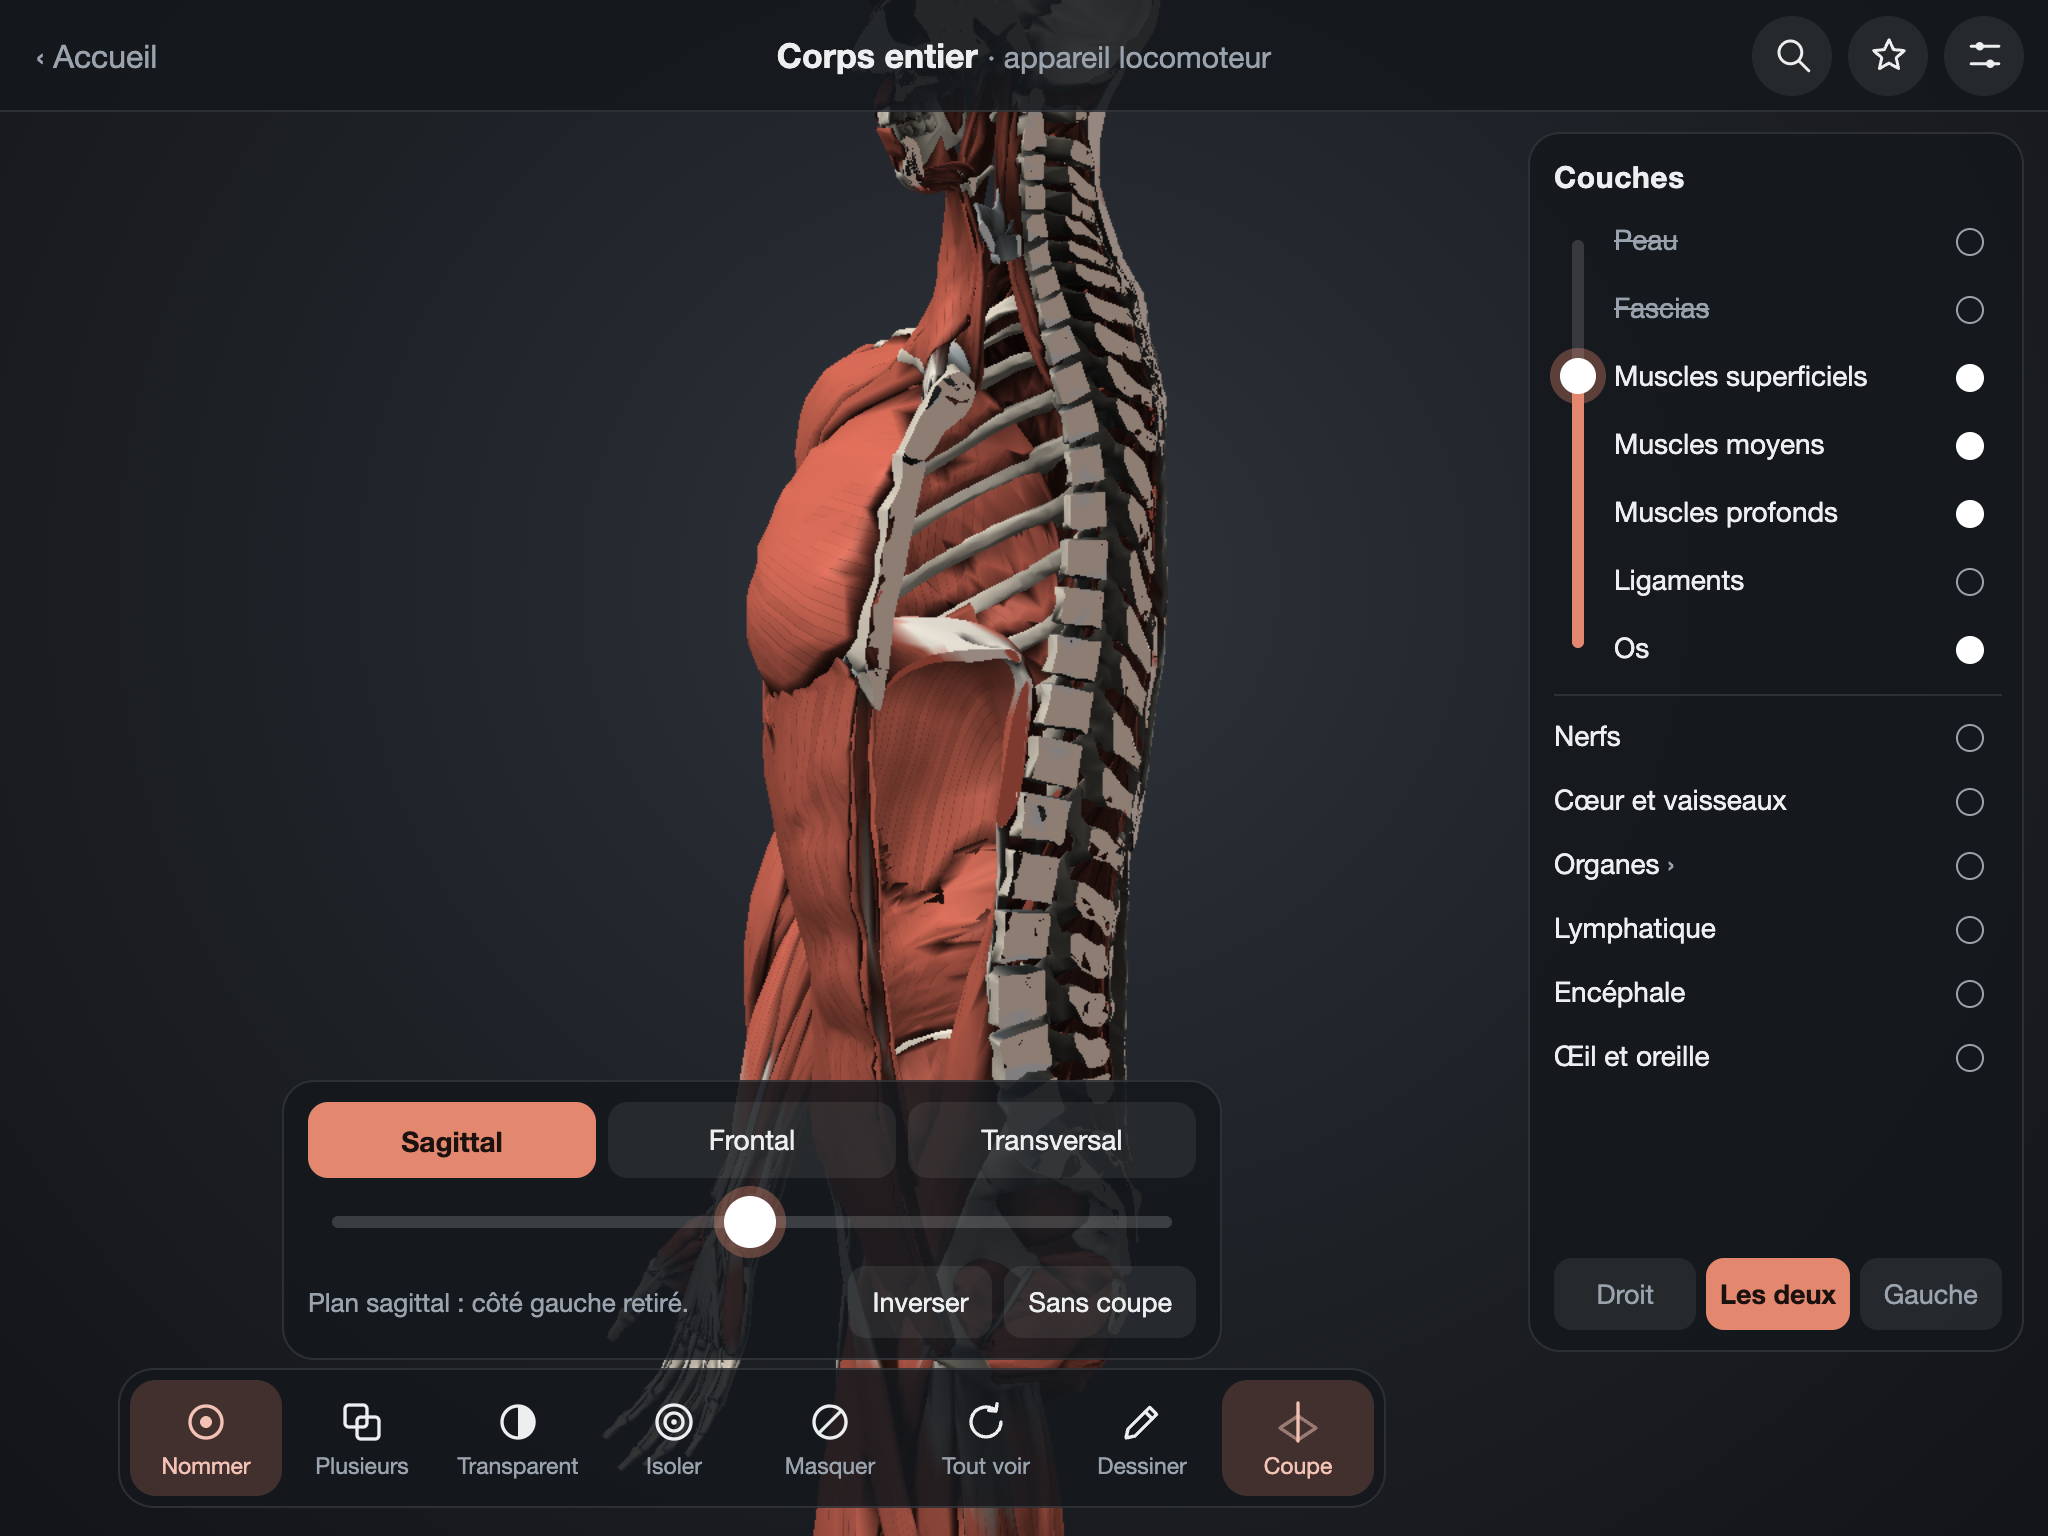
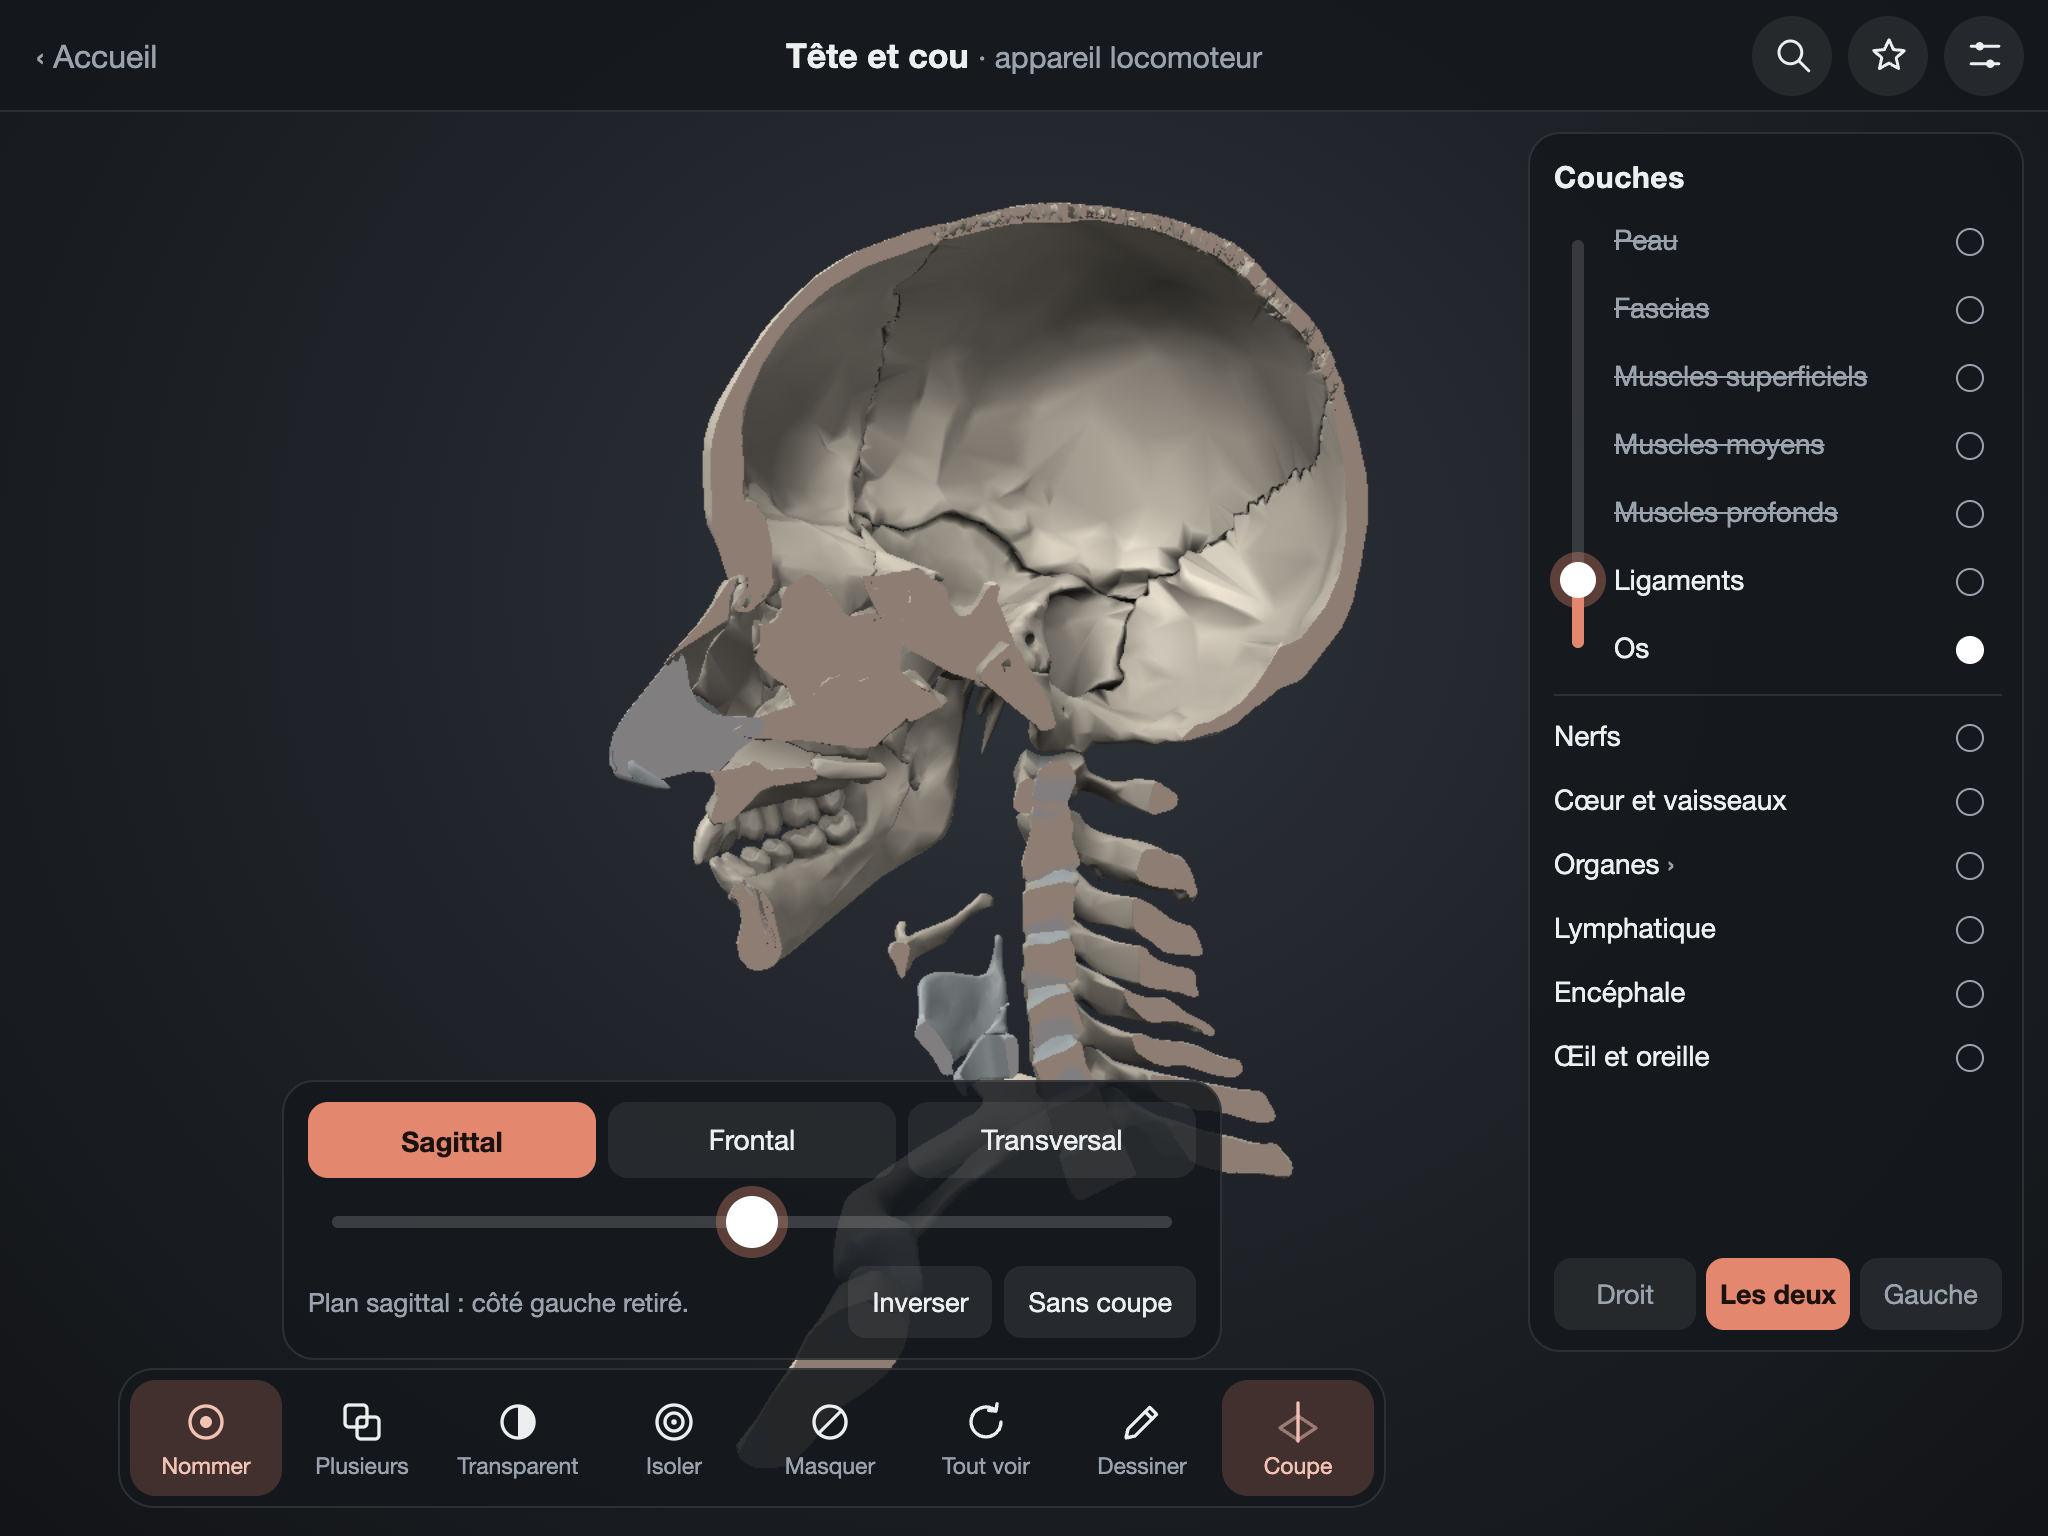
Relecture 1.3 : défaut 16 corrigé (coupe sans taches noires), coupe sagittale sur la ligne médiane, captures
Près du plan de coupe, l'ombre de contact (calculée pour le corps fermé) est relevée sur 4 cm :
les creux mis à nu (canal vertébral, intérieur du crâne) ne sont plus noirs. Variante « coupe » du shader seulement.

diff --git a/docs/app.js b/docs/app.js
@@ -278,6 +278,9 @@
       '    brille = 0.07 + 0.09 * fib * fadeF;',
       '  }'].join('\n') : '',
       '  float occ = mix(0.15, 1.0, pow(clamp(vAo, 0.0, 1.0), 1.5));',
+      // près du plan de coupe, les creux mis à nu (canal vertébral, intérieur du crâne) gardaient l'ombre calculée pour le
+      // corps fermé et paraissaient noirs : on relève cette ombre sur les 4 cm qui bordent la coupe
+      avecCoupe ? '  occ = mix(occ, max(occ, 0.8), 1.0 - smoothstep(0.0, 4.0, coupe.w - dot(vP, coupe.xyz)));' : '',
       '  vec3 col = alb * m.rgb * 1.4 * occ + vec3(m.a) * brille * occ + ajout;',
       // face intérieure vue à travers la coupe : teinte unie de la tranche
       avecCoupe ? '  if (!gl_FrontFacing) col = vC * vec3(0.66, 0.6, 0.58) + ajout;' : '',
@@ -2037,7 +2040,8 @@
   }
   function poserCoupe(plan) {
     var ax = PLANS[plan][3], f = 0.5;
-    if (boite) f = (controls.target[ax] - boite.min[ax]) / Math.max(1, boite.max[ax] - boite.min[ax]); // par le centre de la vue
+    // par le centre de la vue ; la coupe sagittale part de la ligne médiane (corps symétrique, et le cadrage peut décaler la vue)
+    if (boite) f = ((plan === 'sagittal' ? 0 : controls.target[ax]) - boite.min[ax]) / Math.max(1, boite.max[ax] - boite.min[ax]);
     etat.coupe = { plan: plan, f: Math.max(0.02, Math.min(0.98, f)), inverse: etat.coupe && etat.coupe.plan === plan ? etat.coupe.inverse : false };
     appliquerCoupe();
   }
@@ -2089,6 +2093,7 @@
   // Sonde de lecture pour les tests automatiques (aucun effet sur l'usage normal)
   var sonde = window.__anatomie = {
     pret: false, journal: [], version: VERSION, etat: etat,
+    planCoupe: function () { return etat.coupe ? UNI.coupe.value.toArray() : null; },
     regionGardee: function (d) { return gardes[d] || ''; },
     boiteRegion: function () { return boiteRegion(); }, camera: camera, controls: controls, renderer: renderer, scene: scene,
     manifeste: function () { return M; },
